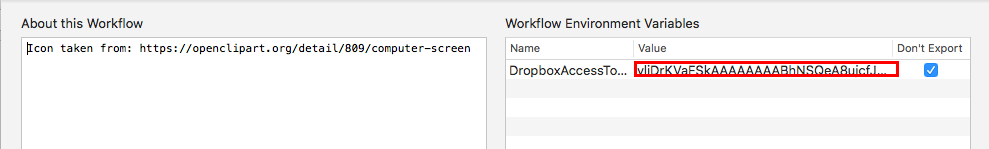
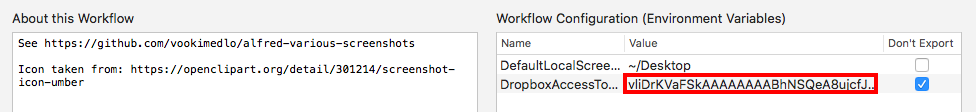
Custom local screenshot folder (#4)
* Custom local screenshot folder

* Updates screenshots added

* Update README.md

diff --git a/README.md b/README.md
@@ -31,6 +31,11 @@ Screenshots files will be named according to the following pattern `screenshot_%
            M       Minutes, a number from 0 to 59.
            S       Seconds, a number from 0 to 59.
            
+ 
+Default local screenshots folder `~/Desktop` can be changed by the workflow `DefaultLocalScreenshotFolder` variable.
+
+![Alfre Variable Local](doc/images/alfred-various-screenshots-variable-local.png?raw=true "")
+           
 ### Dropbox
 There is no need to install a Dropbox software to your MacOS. The only requirement is to log into the [web Dropbox account][3] and create an access token for the workflow.
 
